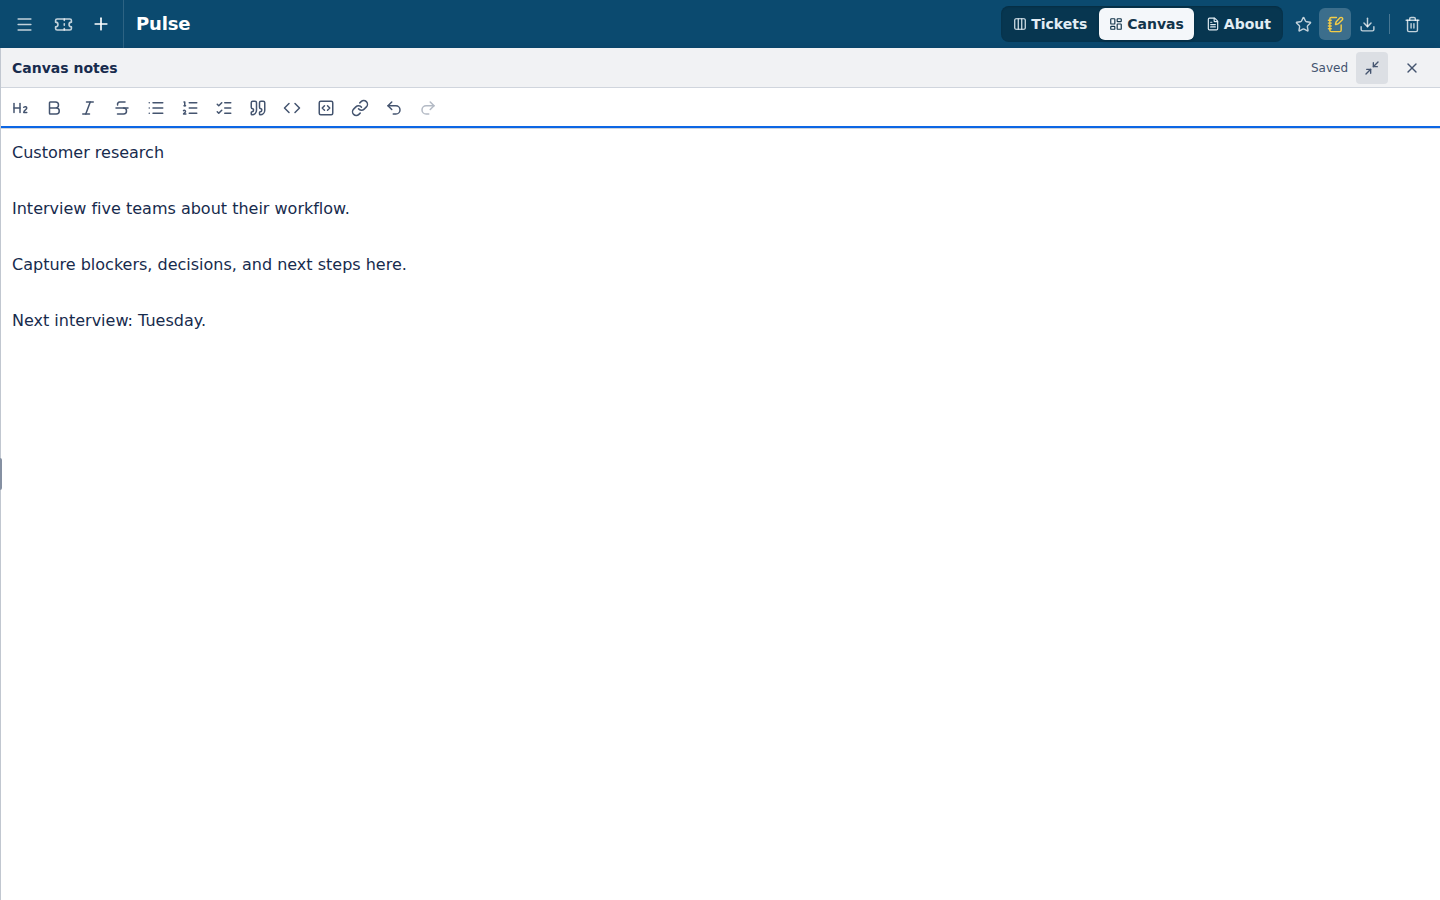
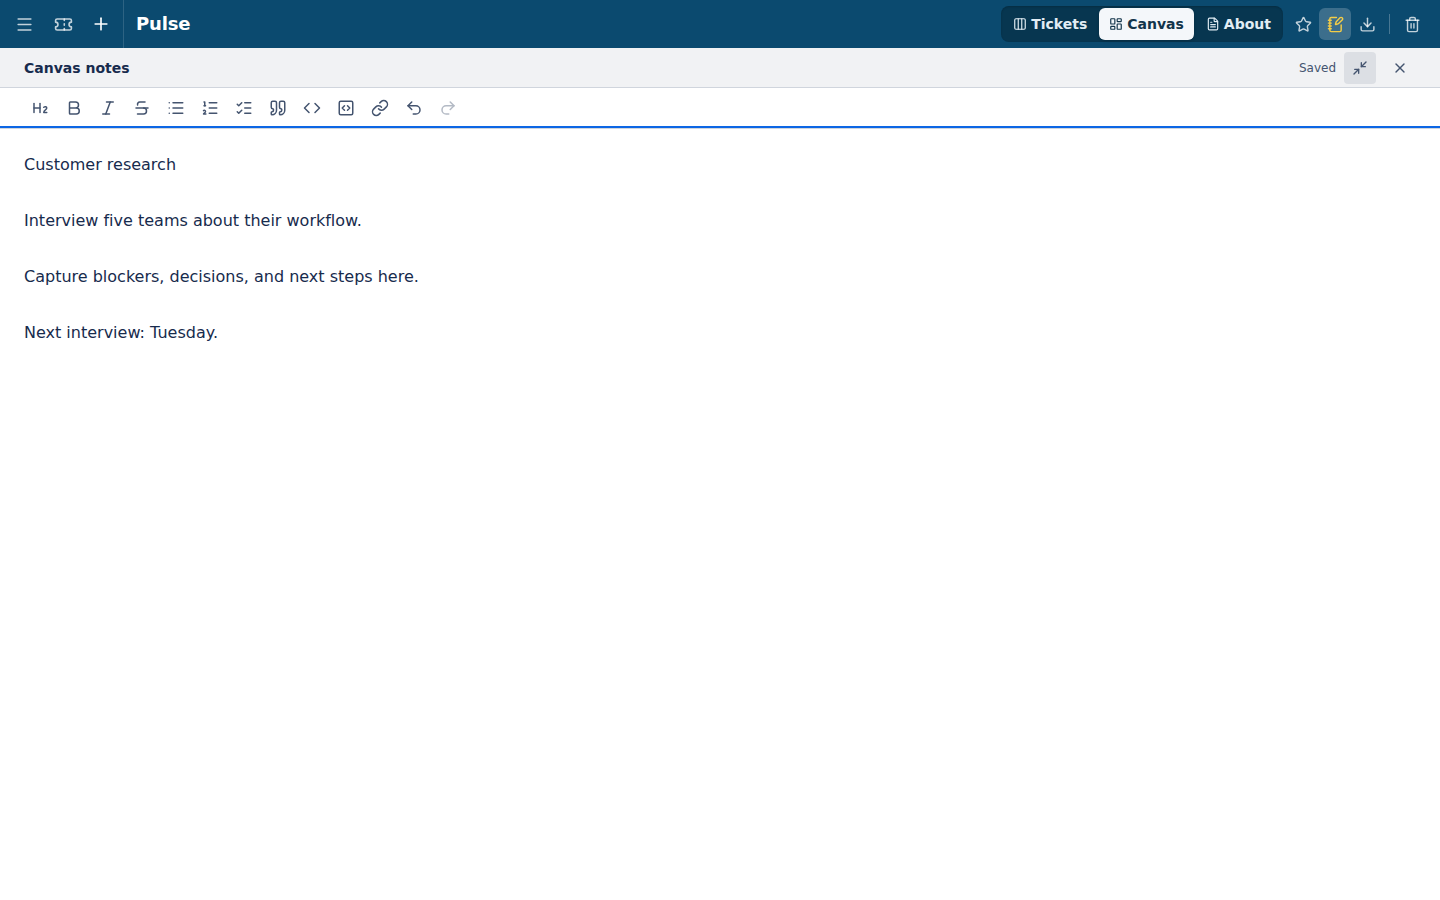
Fix the left edge and spacing of full-width notes

diff --git a/tests/notepad-expand.spec.ts b/tests/notepad-expand.spec.ts
@@ -20,6 +20,9 @@ test('desktop notes expand, restore, and follow the available workspace', async 
   const availableWidth = () => page.locator('.workspace-content').evaluate((element) => element.clientWidth)
   const panelWidth = () => panel.evaluate((element) => Math.round(element.getBoundingClientRect().width))
   await expect.poll(panelWidth).toBe(await availableWidth())
+  await expect(handle).not.toBeVisible()
+  await expect(notes).toHaveCSS('padding-left', '24px')
+  await expect(panel.locator('header')).toHaveCSS('padding-left', '24px')
   await expect(page.getByRole('main', { name: 'Lean canvas' })).not.toBeVisible()
   const updatedNotes = 'Customer research\n\nInterview five teams about their workflow.\n\nCapture blockers, decisions, and next steps here.\n\nNext interview: Tuesday.'
   await notes.fill(updatedNotes)
@@ -34,6 +37,8 @@ test('desktop notes expand, restore, and follow the available workspace', async 
   await expect.poll(panelWidth).toBe(1024)
   await panel.getByRole('button', { name: 'Restore notepad width' }).click()
   await expect.poll(panelWidth).toBe(720)
+  await expect(handle).toBeVisible()
+  await expect(notes).toHaveCSS('padding-left', '12px')
   await expect(notes).toContainText('Next interview: Tuesday.')
   await expect(page.getByRole('main', { name: 'Lean canvas' })).toBeVisible()
   await handle.focus()
@@ -61,6 +66,7 @@ test('mobile notes still fill the screen without a redundant expand button', asy
   const panel = page.getByRole('complementary', { name: 'Notepad' })
   await expect(panel.getByRole('button', { name: 'Expand notepad' })).not.toBeVisible()
   await expect(panel.getByRole('separator')).not.toBeVisible()
+  await expect(panel.getByRole('textbox', { name: 'Canvas notes' })).toHaveCSS('padding-left', '12px')
   await expect.poll(() => panel.evaluate((element) => {
     const { left, right, top, bottom } = element.getBoundingClientRect()
     return { left, right, top, bottom }

diff --git a/src/components/NotepadPanel.tsx b/src/components/NotepadPanel.tsx
@@ -54,7 +54,7 @@ export function NotepadPanel({ canvas, open, saving, saveFailed, onClose, onChan
       inert={!open}
     >
       <div
-        className="group absolute inset-y-0 start-0 z-10 w-2 -translate-x-1/2 cursor-col-resize touch-pan-y focus-visible:outline-2 focus-visible:outline-offset-[-2px] focus-visible:outline-[#0c66e4] max-[761px]:hidden"
+        className={`group absolute inset-y-0 start-0 z-10 w-2 -translate-x-1/2 cursor-col-resize touch-pan-y focus-visible:outline-2 focus-visible:outline-offset-[-2px] focus-visible:outline-[#0c66e4] max-[761px]:hidden ${expanded ? 'hidden' : ''}`}
         role="separator"
         aria-label="Resize notepad"
         aria-orientation="vertical"

diff --git a/src/components/project-rich-text-editor.css b/src/components/project-rich-text-editor.css
@@ -105,3 +105,9 @@
 @media (pointer: fine) {
   .notepad-panel .rich-text-toolbar button { min-width: 32px; min-height: 32px; padding: 6px; }
 }
+@media (min-width: 762px) {
+  .notepad-panel[data-expanded="true"] { box-shadow: none; }
+  .notepad-panel[data-expanded="true"] > header { padding-inline: 24px; }
+  .notepad-panel[data-expanded="true"] .rich-text-toolbar { padding-inline: 24px; }
+  .notepad-panel[data-expanded="true"] .project-rich-text-content .tiptap { padding: 24px; }
+}
